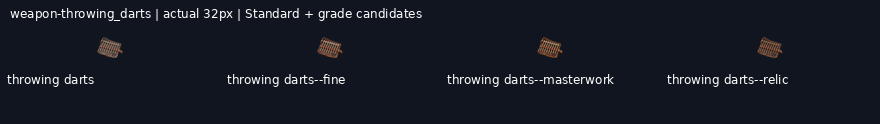
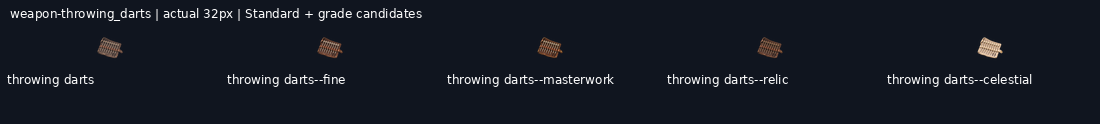
art: draw weapon-throwing_darts--celestial grade candidate

diff --git a/art/_archive/gear/2026-11-19-kept-blade-grades/HANDOFF.md b/art/_archive/gear/2026-11-19-kept-blade-grades/HANDOFF.md
@@ -1,6 +1,6 @@
 # Gear grade candidates
 
-**196/244 grade candidates delivered** on `art/2026-11-19-kept-blade-grades`. Shared mailbox: https://github.com/leonpentastorm/Project-Heaven-Cry/issues/3 . See claim.json for this lane’s current Standards. Released overlapping blades reuse12 peer candidates, with3 local alternatives archived.
+**197/244 grade candidates delivered** on `art/2026-11-19-kept-blade-grades`. Shared mailbox: https://github.com/leonpentastorm/Project-Heaven-Cry/issues/3 . See claim.json for this lane’s current Standards. Released overlapping blades reuse12 peer candidates, with3 local alternatives archived.
 
 Leon requested continuous candidate production; proof approval is not fabricated. All candidates remain review-candidate, production_approved:false, implementation_ready:false, with outline.review_required:true. Exact outline is measured, never asserted unless the masks match. Per-image registration is uniform scaling/translation only, without warp, silhouette masks, filled pixels or code-drawn substitutes. The generated native remains untouched.
 
@@ -10,12 +10,12 @@ Tomorrow: fetch this branch and develop safely, read the latest issue 3 comments
 
 Peer audit: [coordination/peer-audit-2026-11-19.md](coordination/peer-audit-2026-11-19.md). Peer58 masters/232 exports and12 canonical imports are integrated with versioned alpha<8 cleanup; originals are retained. See coordination/peer-import-v2/manifest.json and post-catalog VALIDATION.json (strict margins pass, solid alpha unchanged). Peer quota resets20 November2026 at09:45:39 Bangkok time; this does not establish this session’s quota.
 
-Remaining: weapon-ork_machete--masterwork, weapon-ork_machete--relic, weapon-ork_machete--celestial, weapon-war_axe--fine, weapon-war_axe--masterwork, weapon-war_axe--relic, weapon-war_axe--celestial, weapon-parlour_pistol--fine, weapon-parlour_pistol--masterwork, weapon-parlour_pistol--relic, weapon-parlour_pistol--celestial, weapon-lever_carbine--fine, weapon-lever_carbine--masterwork, weapon-lever_carbine--relic, weapon-lever_carbine--celestial, weapon-sawn_off--fine, weapon-sawn_off--masterwork, weapon-sawn_off--relic, weapon-sawn_off--celestial, weapon-coach_gun--fine, weapon-coach_gun--masterwork, weapon-coach_gun--relic, weapon-coach_gun--celestial, weapon-legion_bullpup--fine, weapon-legion_bullpup--masterwork, weapon-legion_bullpup--relic, weapon-legion_bullpup--celestial, weapon-whisper_smg--fine, weapon-whisper_smg--masterwork, weapon-whisper_smg--relic, weapon-whisper_smg--celestial, weapon-war_pick--fine, weapon-war_pick--masterwork, weapon-war_pick--relic, weapon-war_pick--celestial, weapon-war_hammer--fine, weapon-war_hammer--masterwork, weapon-war_hammer--relic, weapon-war_hammer--celestial, weapon-short_bow--fine, weapon-short_bow--masterwork, weapon-short_bow--relic, weapon-short_bow--celestial, weapon-throwing_darts--celestial, weapon-throwing_javelins--fine, weapon-throwing_javelins--masterwork, weapon-throwing_javelins--relic, weapon-throwing_javelins--celestial.
+Remaining: weapon-ork_machete--masterwork, weapon-ork_machete--relic, weapon-ork_machete--celestial, weapon-war_axe--fine, weapon-war_axe--masterwork, weapon-war_axe--relic, weapon-war_axe--celestial, weapon-parlour_pistol--fine, weapon-parlour_pistol--masterwork, weapon-parlour_pistol--relic, weapon-parlour_pistol--celestial, weapon-lever_carbine--fine, weapon-lever_carbine--masterwork, weapon-lever_carbine--relic, weapon-lever_carbine--celestial, weapon-sawn_off--fine, weapon-sawn_off--masterwork, weapon-sawn_off--relic, weapon-sawn_off--celestial, weapon-coach_gun--fine, weapon-coach_gun--masterwork, weapon-coach_gun--relic, weapon-coach_gun--celestial, weapon-legion_bullpup--fine, weapon-legion_bullpup--masterwork, weapon-legion_bullpup--relic, weapon-legion_bullpup--celestial, weapon-whisper_smg--fine, weapon-whisper_smg--masterwork, weapon-whisper_smg--relic, weapon-whisper_smg--celestial, weapon-war_pick--fine, weapon-war_pick--masterwork, weapon-war_pick--relic, weapon-war_pick--celestial, weapon-war_hammer--fine, weapon-war_hammer--masterwork, weapon-war_hammer--relic, weapon-war_hammer--celestial, weapon-short_bow--fine, weapon-short_bow--masterwork, weapon-short_bow--relic, weapon-short_bow--celestial, weapon-throwing_javelins--fine, weapon-throwing_javelins--masterwork, weapon-throwing_javelins--relic, weapon-throwing_javelins--celestial.
 
 Service-rejected requests (do not repeatedly resubmit): weapon-coach_gun--fine, weapon-legion_bullpup--fine, weapon-lever_carbine--fine, weapon-ork_machete--masterwork, weapon-parlour_pistol--fine, weapon-sawn_off--fine, weapon-short_bow--fine, weapon-war_axe--fine, weapon-war_hammer--fine, weapon-war_pick--fine, weapon-whisper_smg--fine.
 
 Waiting on rejected prerequisites: weapon-coach_gun--celestial, weapon-coach_gun--masterwork, weapon-coach_gun--relic, weapon-legion_bullpup--celestial, weapon-legion_bullpup--masterwork, weapon-legion_bullpup--relic, weapon-lever_carbine--celestial, weapon-lever_carbine--masterwork, weapon-lever_carbine--relic, weapon-ork_machete--celestial, weapon-ork_machete--relic, weapon-parlour_pistol--celestial, weapon-parlour_pistol--masterwork, weapon-parlour_pistol--relic, weapon-sawn_off--celestial, weapon-sawn_off--masterwork, weapon-sawn_off--relic, weapon-short_bow--celestial, weapon-short_bow--masterwork, weapon-short_bow--relic, weapon-war_axe--celestial, weapon-war_axe--masterwork, weapon-war_axe--relic, weapon-war_hammer--celestial, weapon-war_hammer--masterwork, weapon-war_hammer--relic, weapon-war_pick--celestial, weapon-war_pick--masterwork, weapon-war_pick--relic, weapon-whisper_smg--celestial, weapon-whisper_smg--masterwork, weapon-whisper_smg--relic.
 
-Ready independent next steps, in queue order: weapon-throwing_darts--celestial, weapon-throwing_javelins--fine. Other pending grades follow their preceding grade.
+Ready independent next steps, in queue order: weapon-throwing_javelins--fine. Other pending grades follow their preceding grade.
 
 Runtime handoff: implementation_ready:false records review status but does not gate the web asset builder. The builder emits grade asset keys; the current UI gear resolver still needs grade-aware selection. Do not claim that runtime grade selection is implemented by these art deliveries.
